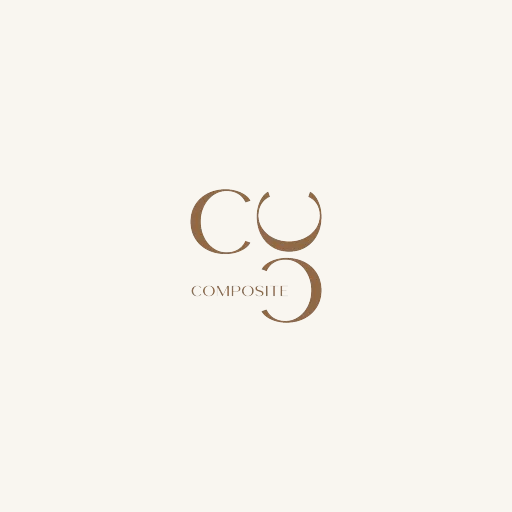
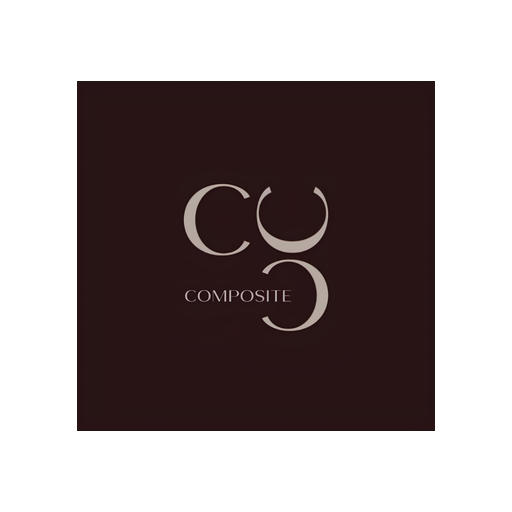
Perbarui nama dan ikon PWA Composite

diff --git a/src/app/manifest.js b/src/app/manifest.js
@@ -1,8 +1,8 @@
 export default function manifest() {
   return {
     id: "/",
-    name: "Absensi Composite",
-    short_name: "Absensi",
+    name: "Absensi - Composite",
+    short_name: "Absensi - Composite",
     lang: "id",
     description: "Portal absensi PT Composite Interior Prima",
     start_url: "/",
@@ -12,13 +12,13 @@ export default function manifest() {
     theme_color: "#f9f6f0",
     icons: [
       {
-        src: "/images/pwa/icon-192.png",
+        src: "/images/pwa/icon-192.png?v=2",
         sizes: "192x192",
         type: "image/png",
         purpose: "any maskable",
       },
       {
-        src: "/images/pwa/icon-512.png",
+        src: "/images/pwa/icon-512.png?v=2",
         sizes: "512x512",
         type: "image/png",
         purpose: "any maskable",

diff --git a/src/app/layout.js b/src/app/layout.js
@@ -17,12 +17,12 @@ const jakarta = Plus_Jakarta_Sans({
 
 export const metadata = {
   icons: {
-    apple: "/images/pwa/apple-touch-icon.png",
+    apple: "/images/pwa/apple-touch-icon.png?v=2",
     icon: { url: "/images/Composite-Logo-Peanut.webp?v=2", type: "image/webp" },
   },
   appleWebApp: {
     capable: true,
-    title: "Absensi Composite",
+    title: "Absensi - Composite",
     statusBarStyle: "default",
   },
   title: {
